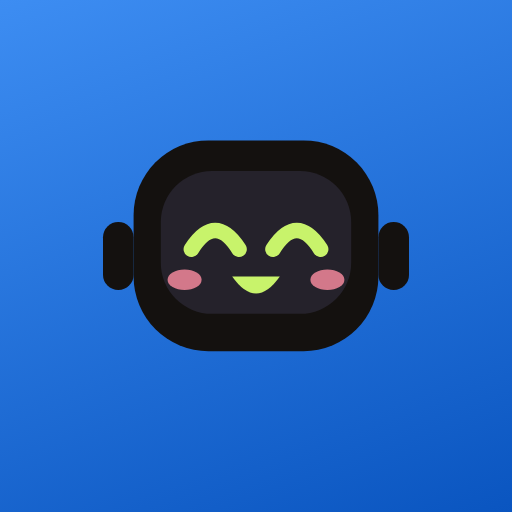
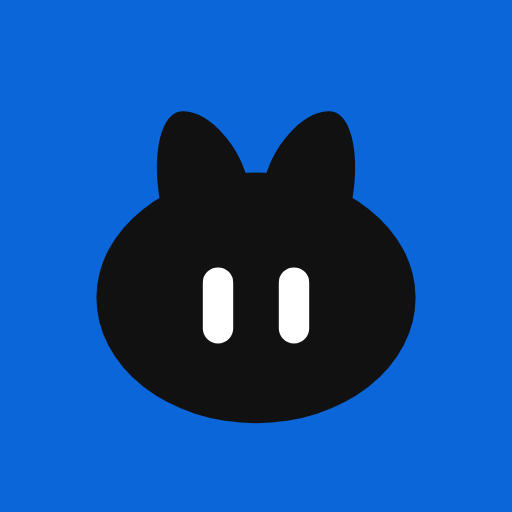
Add files via upload

diff --git a/public/app.js b/public/app.js
@@ -68,7 +68,7 @@
   const SUN = '<svg width="20" height="20" viewBox="0 0 24 24" fill="none" stroke="currentColor" stroke-width="1.8" stroke-linecap="round" stroke-linejoin="round" aria-hidden="true"><circle cx="12" cy="12" r="4"/><path d="M12 3v2M12 19v2M3 12h2M19 12h2M5.6 5.6l1.4 1.4M17 17l1.4 1.4M18.4 5.6L17 7M7 17l-1.4 1.4"/></svg>';
 
   /* ---------- Estado ---------- */
-  const defaultStore = () => ({ manual: [], rules: {}, goals: [], budget: null, cofrinho: null, fixedHidden: {}, catCount: 2, cats: null, hidden: {}, hideKeys: {}, notes: {}, invest: { rate: 13, monthly: null }, look: { accent: 'blue', face: 'big' } });
+  const defaultStore = () => ({ manual: [], rules: {}, goals: [], budget: null, cofrinho: null, fixedHidden: {}, catCount: 2, cats: null, hidden: {}, hideKeys: {}, notes: {}, invest: { rate: 13, monthly: null }, look: { accent: 'blue', face: 'big', body: 'classic' } });
   const state = { tab: 'inicio', month: CUR, dir: 'out', filter: 'all', fl: { methods: [], cats: [], days: [] }, open: {}, q: '', showAll: false, sim: { valor: '2000', juros: '0', desc: '0', pay: 'card12' } };
   let DATA = null, STORE = defaultStore(), TX = [], FIX = null, storeMode = 'local', saveTimer = null;
 
@@ -107,7 +107,7 @@
     if (typeof applyLook === 'function') applyLook();
   }
   function initTheme() {
-    try { const r = JSON.parse(localStorage.getItem('mg-look') || 'null'); if (r && ACCENTS_OK(r.accent)) STORE.look = { accent: r.accent, face: r.face || 'big' }; } catch (e) { /* ignorado */ }
+    try { const r = JSON.parse(localStorage.getItem('mg-look') || 'null'); if (r && ACCENTS_OK(r.accent)) STORE.look = { accent: r.accent, face: r.face || 'big', body: r.body || 'classic' }; } catch (e) { /* ignorado */ }
     let t = null;
     try { t = localStorage.getItem('mg-theme'); } catch (e) { /* ignorado */ }
     if (t !== 'dark' && t !== 'light') t = window.matchMedia && matchMedia('(prefers-color-scheme: dark)').matches ? 'dark' : 'light';
@@ -304,7 +304,7 @@
   /* ---------- Mascote Bit ---------- */
   const FACES = { big: 'Olhão', brows: 'Sobrancelhas', grin: 'Sorrisão' };
   const ACCENTS = { blue: { n: 'Azul', c: '#0A66D9' }, green: { n: 'Verde', c: '#0F7B5F' }, violet: { n: 'Violeta', c: '#6045E0' } };
-  const lookNow = () => Object.assign({ accent: 'blue', face: 'big' }, STORE && STORE.look);
+  const lookNow = () => Object.assign({ accent: 'blue', face: 'big' }, STORE && STORE.look, { body: 'critter' });
   function bitFace(face, mood) {
     const base = { big: '#8BE9C9', brows: '#FFD27A', grin: '#7FE3FF' }[face] || '#8BE9C9';
     const c = { happy: '#C8F36B', sad: '#A9C8FF', angry: '#FF8A5C', sleepy: '#9CA3AF' }[mood] || base;
@@ -350,10 +350,24 @@
       surprised: '<circle cx="38" cy="50" r="7.5" fill="' + c + '"/><circle cx="62" cy="50" r="7.5" fill="' + c + '"/>' + glint(38, 50, 2.6) + glint(62, 50, 2.6) + '<ellipse cx="50" cy="67" rx="3.5" ry="4.5" fill="' + c + '"/>'
     })[mood];
   }
-  function bit(mood, size, float, face) {
+  const BODIES = {
+    critter: { n: 'Mascote', vb: [0, 8, 100, 90], custom: true }
+  };
+  function critterEyes(mood) {
+    const e = 'fill:var(--bg)', st = 'fill:none;stroke:var(--bg);stroke-width:5;stroke-linecap:round';
+    if (mood === 'happy') return '<path class="eye" style="' + st + '" d="M35 68 Q40.500 57 46 68 M54 68 Q59.500 57 65 68"/>';
+    if (mood === 'sleepy') return '<path style="' + st + '" d="M35 66 H46 M54 66 H65"/>';
+    if (mood === 'surprised') return '<circle class="eye" style="' + e + '" cx="40.500" cy="64" r="6.500"/><circle class="eye" style="' + e + '" cx="59.500" cy="64" r="6.500"/>';
+    const h = mood === 'sad' ? 14 : 20;
+    return '<rect class="eye" style="' + e + '" x="36" y="' + (mood === 'sad' ? 62 : 56) + '" width="8" height="' + h + '" rx="4"/><rect class="eye" style="' + e + '" x="56" y="' + (mood === 'sad' ? 62 : 56) + '" width="8" height="' + h + '" rx="4"/>';
+  }
+  function bit(mood, size, float, face, body) {
     face = face || lookNow().face;
+    body = BODIES.critter;
     mood = mood || 'idle';
-    return '<svg class="bit' + (float ? ' float' : '') + '" width="' + size + '" height="' + size + '" viewBox="0 6 100 100" role="img" aria-label="Bit, o robô do Opus"><rect class="b" x="5" y="46" width="9" height="20" rx="4.5"/><rect class="b" x="86" y="46" width="9" height="20" rx="4.5"/><rect class="b" x="14" y="22" width="72" height="62" rx="22"/><rect class="s" x="22" y="31" width="56" height="42" rx="15"/>' + (bitFace(face, mood) || bitFace(face, 'idle')) + '</svg>';
+    const v = body.vb, w = Math.round(size * v[2] / v[3]);
+    if (body.custom) return '<svg class="bit' + (float ? ' float' : '') + '" width="' + w + '" height="' + size + '" viewBox="' + v.join(' ') + '" role="img" aria-label="Mascote do Opus"><path class="b" d="M26 44 C22 30 24 16 30 15 C37 14 46 24 48 34 Z"/><path class="b" d="M74 44 C78 30 76 16 70 15 C63 14 54 24 52 34 Z"/><ellipse class="b" cx="50" cy="64" rx="42" ry="33"/>' + critterEyes(mood) + '</svg>';
+    return '<svg class="bit' + (float ? ' float' : '') + '" width="' + w + '" height="' + size + '" viewBox="' + v.join(' ') + '" role="img" aria-label="Bit, o robô do Opus">' + body.u + '<rect class="b" x="5" y="46" width="9" height="20" rx="4.5"/><rect class="b" x="86" y="46" width="9" height="20" rx="4.5"/><rect class="b" x="14" y="22" width="72" height="62" rx="22"/><rect class="s" x="22" y="31" width="56" height="42" rx="15"/>' + (bitFace(face, mood) || bitFace(face, 'idle')) + '</svg>';
   }
   function applyLook() {
     const L = lookNow();
@@ -846,11 +860,12 @@
 
     const LK = lookNow();
     const accBtns = Object.keys(ACCENTS).map((k) => '<button type="button" class="opt' + (LK.accent === k ? ' on' : '') + '" data-act="set-accent" data-id="' + k + '" aria-pressed="' + (LK.accent === k) + '"><i class="dot" style="background:' + ACCENTS[k].c + '"></i>' + ACCENTS[k].n + '</button>').join('');
-    const faceBtns = Object.keys(FACES).map((k) => '<button type="button" class="opt face' + (LK.face === k ? ' on' : '') + '" data-act="set-face" data-id="' + k + '" aria-pressed="' + (LK.face === k) + '" aria-label="Rosto ' + FACES[k] + '">' + bit('idle', 56, false, k) + '<span>' + FACES[k] + '</span></button>').join('');
-    const look = '<section class="card" style="gap:0"><div class="item" style="border-top:0;padding-top:0"><div><div class="nm">Tema</div><div class="ds">' + (dark ? 'Escuro' : 'Claro') + ' ativo</div></div>' +
+    const summary = ACCENTS[LK.accent].n;
+    const look = '<section class="card" style="gap:0"><button type="button" class="look-head" data-act="toggle-look" aria-expanded="' + lookOpen + '"><span><span class="l">Aparência</span><span class="s">' + summary + '</span></span><span class="cvwrap' + (lookOpen ? ' open' : '') + '">' + CHV + '</span></button>' +
+      (lookOpen ? '<div class="look-body"><div class="item"><div><div class="nm">Tema</div><div class="ds">' + (dark ? 'Escuro' : 'Claro') + ' ativo</div></div>' +
       '<div class="seg" role="group" aria-label="Tema"><button type="button" data-act="set-theme" data-id="light" aria-pressed="' + !dark + '">Claro</button><button type="button" data-act="set-theme" data-id="dark" aria-pressed="' + dark + '">Escuro</button></div></div>' +
       '<div class="item"><div style="min-width:0;width:100%"><div class="nm">Cor de destaque</div><div class="opts" role="group" aria-label="Cor de destaque">' + accBtns + '</div></div></div>' +
-      '<div class="item"><div style="min-width:0;width:100%"><div class="nm">Rosto do Bit</div><div class="opts" role="group" aria-label="Rosto do Bit">' + faceBtns + '</div></div></div></section>';
+      '</div>' : '') + '</section>';
 
     const faceSub = !faceSupported() ? 'Este navegador não oferece Face ID' : faceOn ? 'Ativado: entre sem digitar a senha' : 'Desativado neste aparelho';
     const security = '<section class="card" style="gap:0"><div class="item" style="border-top:0;padding-top:0"><div style="min-width:0"><div class="nm">Entrar com Face ID</div><div class="ds">' + esc(faceMsg || faceSub) + '</div></div>' +
@@ -913,7 +928,7 @@
     }
     $('#banner').innerHTML = parts.join('');
   }
-  let lastTab = null, lastLook = '';
+  let lastTab = null, lastLook = '', lookOpen = false;
   function render() {
     { const lk = JSON.stringify(lookNow()); if (lk !== lastLook) { lastLook = lk; applyLook(); } }
     if (!DATA) return;
@@ -1085,6 +1100,8 @@
     'aporte-auto': () => { STORE.invest = Object.assign(invCfg(), { monthly: null }); closeDlg(); saveStore(); },
     'set-theme': (el) => { applyTheme(el.dataset.id); render(); },
     'set-accent': (el) => { STORE.look = Object.assign(lookNow(), { accent: el.dataset.id }); saveStore(); },
+    'toggle-look': () => { lookOpen = !lookOpen; render(); },
+    'set-body': (el) => { STORE.look = Object.assign(lookNow(), { body: el.dataset.id }); saveStore(); },
     'set-face': (el) => { STORE.look = Object.assign(lookNow(), { face: el.dataset.id }); saveStore(); },
     'faceid-login': () => faceLogin(),
     'face-enable': () => faceEnable(),

diff --git a/public/index.html b/public/index.html
@@ -11,9 +11,9 @@
 <meta name="apple-mobile-web-app-title" content="Opus">
 <meta name="apple-mobile-web-app-status-bar-style" content="default">
 <link rel="manifest" href="/manifest.webmanifest">
-<link rel="icon" type="image/png" href="/icon-192.png">
-<link rel="apple-touch-icon" href="/icon-180.png">
-<link rel="stylesheet" href="/styles.css?v=14">
+<link rel="icon" type="image/png" href="/icon-192.png?v=19">
+<link rel="apple-touch-icon" href="/icon-180.png?v=19">
+<link rel="stylesheet" href="/styles.css?v=19">
 </head>
 <body>
 
@@ -21,7 +21,7 @@
 <main id="login" class="auth" hidden>
   <aside class="auth-brand">
     <div class="ab-top">
-      <span class="ab-logo" aria-hidden="true"><svg class="bit" width="30" height="30" viewBox="0 6 100 100" aria-hidden="true" style="--bit:#F2F4F8;--bit-screen:#1B2230"><rect class="b" x="5" y="46" width="9" height="20" rx="4.5"/><rect class="b" x="86" y="46" width="9" height="20" rx="4.5"/><rect class="b" x="14" y="22" width="72" height="62" rx="22"/><rect class="s" x="22" y="31" width="56" height="42" rx="15"/><rect x="36" y="43" width="7" height="16" rx="3.5" fill="#FFB38A"/><rect x="57" y="43" width="7" height="16" rx="3.5" fill="#FFB38A"/></svg></span>
+      <span class="ab-logo" aria-hidden="true"><svg class="bit" width="34" height="30" viewBox="0 8 100 90" aria-hidden="true" style="--bit:#F2F4F8;--bg:#1B2230"><path class="b" d="M26 44 C22 30 24 16 30 15 C37 14 46 24 48 34 Z"/><path class="b" d="M74 44 C78 30 76 16 70 15 C63 14 54 24 52 34 Z"/><ellipse class="b" cx="50" cy="64" rx="42" ry="33"/><rect x="36" y="56" width="8" height="20" rx="4" style="fill:var(--bg)"/><rect x="56" y="56" width="8" height="20" rx="4" style="fill:var(--bg)"/></svg></span>
       <span>Opus</span>
     </div>
     <div class="ab-mid">
@@ -93,16 +93,16 @@
 
   <nav class="tabs" aria-label="Seções">
     <div class="tabs-in">
-      <button type="button" class="tab" data-tab="inicio"><span class="pill"><svg width="22" height="22" viewBox="0 0 24 24" fill="none" stroke="currentColor" stroke-width="1.8" stroke-linecap="round" stroke-linejoin="round" aria-hidden="true"><path d="M4 11l8-7 8 7"/><path d="M6 10v9h12v-9"/></svg></span>Início</button>
-      <button type="button" class="tab" data-tab="gastos"><span class="pill"><svg width="22" height="22" viewBox="0 0 24 24" fill="none" stroke="currentColor" stroke-width="1.8" stroke-linecap="round" stroke-linejoin="round" aria-hidden="true"><path d="M7 4h10a1 1 0 0 1 1 1v15l-3-2-3 2-3-2-3 2V5a1 1 0 0 1 1-1z"/><path d="M9.5 9h5M9.5 13h5"/></svg></span>Gastos</button>
-      <button type="button" class="tab" data-tab="fixos"><span class="pill"><svg width="22" height="22" viewBox="0 0 24 24" fill="none" stroke="currentColor" stroke-width="1.8" stroke-linecap="round" stroke-linejoin="round" aria-hidden="true"><path d="M17 4l3 3-3 3"/><path d="M4 11V9a2 2 0 0 1 2-2h14"/><path d="M7 20l-3-3 3-3"/><path d="M20 13v2a2 2 0 0 1-2 2H4"/></svg></span>Fixos</button>
-      <button type="button" class="tab" data-tab="invest"><span class="pill"><svg width="22" height="22" viewBox="0 0 24 24" fill="none" stroke="currentColor" stroke-width="1.8" stroke-linecap="round" stroke-linejoin="round" aria-hidden="true"><path d="M3 17l6-6 4 4 8-8"/><path d="M15 7h6v6"/></svg></span>Investimentos</button>
-      <button type="button" class="tab" data-tab="config"><span class="pill"><svg width="22" height="22" viewBox="0 0 24 24" fill="none" stroke="currentColor" stroke-width="1.8" stroke-linecap="round" stroke-linejoin="round" aria-hidden="true"><circle cx="12" cy="12" r="3"/><path d="M19.4 15a1.7 1.7 0 0 0 .3 1.8l.1.1a2 2 0 1 1-2.8 2.8l-.1-.1a1.7 1.7 0 0 0-1.8-.3 1.7 1.7 0 0 0-1 1.5V21a2 2 0 1 1-4 0v-.1a1.7 1.7 0 0 0-1.1-1.5 1.7 1.7 0 0 0-1.8.3l-.1.1a2 2 0 1 1-2.8-2.8l.1-.1a1.7 1.7 0 0 0 .3-1.8 1.7 1.7 0 0 0-1.5-1H3a2 2 0 1 1 0-4h.1a1.7 1.7 0 0 0 1.5-1.1 1.7 1.7 0 0 0-.3-1.8l-.1-.1a2 2 0 1 1 2.8-2.8l.1.1a1.7 1.7 0 0 0 1.8.3H9a1.7 1.7 0 0 0 1-1.5V3a2 2 0 1 1 4 0v.1a1.7 1.7 0 0 0 1 1.5 1.7 1.7 0 0 0 1.8-.3l.1-.1a2 2 0 1 1 2.8 2.8l-.1.1a1.7 1.7 0 0 0-.3 1.8V9a1.7 1.7 0 0 0 1.5 1H21a2 2 0 1 1 0 4h-.1a1.7 1.7 0 0 0-1.5 1z"/></svg></span>Configurações</button>
+      <button type="button" class="tab" data-tab="inicio" aria-label="Início" title="Início"><span class="pill"><svg width="22" height="22" viewBox="0 0 24 24" fill="none" stroke="currentColor" stroke-width="1.8" stroke-linecap="round" stroke-linejoin="round" aria-hidden="true"><path d="M4 11l8-7 8 7"/><path d="M6 10v9h12v-9"/></svg></span></button>
+      <button type="button" class="tab" data-tab="gastos" aria-label="Gastos" title="Gastos"><span class="pill"><svg width="22" height="22" viewBox="0 0 24 24" fill="none" stroke="currentColor" stroke-width="1.8" stroke-linecap="round" stroke-linejoin="round" aria-hidden="true"><path d="M7 4h10a1 1 0 0 1 1 1v15l-3-2-3 2-3-2-3 2V5a1 1 0 0 1 1-1z"/><path d="M9.5 9h5M9.5 13h5"/></svg></span></button>
+      <button type="button" class="tab" data-tab="fixos" aria-label="Fixos" title="Fixos"><span class="pill"><svg width="22" height="22" viewBox="0 0 24 24" fill="none" stroke="currentColor" stroke-width="1.8" stroke-linecap="round" stroke-linejoin="round" aria-hidden="true"><path d="M17 4l3 3-3 3"/><path d="M4 11V9a2 2 0 0 1 2-2h14"/><path d="M7 20l-3-3 3-3"/><path d="M20 13v2a2 2 0 0 1-2 2H4"/></svg></span></button>
+      <button type="button" class="tab" data-tab="invest" aria-label="Investimentos" title="Investimentos"><span class="pill"><svg width="22" height="22" viewBox="0 0 24 24" fill="none" stroke="currentColor" stroke-width="1.8" stroke-linecap="round" stroke-linejoin="round" aria-hidden="true"><path d="M3 17l6-6 4 4 8-8"/><path d="M15 7h6v6"/></svg></span></button>
+      <button type="button" class="tab" data-tab="config" aria-label="Configurações" title="Configurações"><span class="pill"><svg width="22" height="22" viewBox="0 0 24 24" fill="none" stroke="currentColor" stroke-width="1.8" stroke-linecap="round" stroke-linejoin="round" aria-hidden="true"><circle cx="12" cy="12" r="3"/><path d="M19.4 15a1.7 1.7 0 0 0 .3 1.8l.1.1a2 2 0 1 1-2.8 2.8l-.1-.1a1.7 1.7 0 0 0-1.8-.3 1.7 1.7 0 0 0-1 1.5V21a2 2 0 1 1-4 0v-.1a1.7 1.7 0 0 0-1.1-1.5 1.7 1.7 0 0 0-1.8.3l-.1.1a2 2 0 1 1-2.8-2.8l.1-.1a1.7 1.7 0 0 0 .3-1.8 1.7 1.7 0 0 0-1.5-1H3a2 2 0 1 1 0-4h.1a1.7 1.7 0 0 0 1.5-1.1 1.7 1.7 0 0 0-.3-1.8l-.1-.1a2 2 0 1 1 2.8-2.8l.1.1a1.7 1.7 0 0 0 1.8.3H9a1.7 1.7 0 0 0 1-1.5V3a2 2 0 1 1 4 0v.1a1.7 1.7 0 0 0 1 1.5 1.7 1.7 0 0 0 1.8-.3l.1-.1a2 2 0 1 1 2.8 2.8l-.1.1a1.7 1.7 0 0 0-.3 1.8V9a1.7 1.7 0 0 0 1.5 1H21a2 2 0 1 1 0 4h-.1a1.7 1.7 0 0 0-1.5 1z"/></svg></span></button>
   </nav>
 </div>
 
 <dialog id="dlg" class="dlg"></dialog>
 
-<script src="/app.js?v=14" defer></script>
+<script src="/app.js?v=19" defer></script>
 </body>
 </html>

diff --git a/public/styles.css b/public/styles.css
@@ -345,3 +345,82 @@ button.ir:active{background:var(--soft)}
 .opt.face{flex-direction:column;gap:2px;padding:8px 12px;min-width:88px;font-size:12.5px}
 .opt.face svg{margin:0 auto}
 #brandBit{display:none !important}
+
+.opts .opt{width:auto;flex:1 1 84px}
+.opts .opt.face{min-width:84px}
+.look-body{margin-top:12px}
+.cvwrap{display:inline-flex;transition:transform .25s cubic-bezier(.2,.8,.2,1);color:var(--muted)}
+.cvwrap.open{transform:rotate(90deg)}
+@media (prefers-reduced-motion:reduce){.cvwrap{transition:none}}
+.look-head{display:flex;align-items:center;justify-content:space-between;gap:12px;width:100%;padding:0;background:none;border:0;text-align:left;color:var(--text);font:inherit}
+.look-head .l{display:block;font-size:16px;font-weight:600}
+.look-head .s{display:block;font-size:13px;color:var(--muted);margin-top:2px}
+.look-body .item:first-child{border-top:1px solid var(--line);margin-top:14px}
+
+/* v16: mais compacto no celular + toques de design (bento, brilho na borda, fundo pontilhado) */
+body{background-image:radial-gradient(color-mix(in srgb,var(--text) 7%,transparent) 1px,transparent 1.2px);background-size:22px 22px;background-attachment:fixed}
+.card.hero{position:relative;isolation:isolate;overflow:hidden}
+.card.hero::before{content:"";position:absolute;inset:-60%;z-index:-2;background:conic-gradient(from 0deg,transparent 0 70%,var(--accent) 85%,transparent 100%);animation:beam 7s linear infinite;opacity:.55}
+.card.hero::after{content:"";position:absolute;inset:1px;z-index:-1;border-radius:19px;background:var(--card)}
+@keyframes beam{to{transform:rotate(360deg)}}
+@media (prefers-reduced-motion:reduce){.card.hero::before{animation:none;opacity:.25}}
+.card{transition:border-color .2s ease}
+@media (hover:hover){.card:hover{border-color:color-mix(in srgb,var(--accent) 35%,var(--border))}}
+@media (max-width:640px){
+  body{font-size:14px}
+  .scroll{padding-top:max(14px,env(safe-area-inset-top));padding-left:14px;padding-right:14px}
+  .wrap{gap:12px}
+  .title{font-size:21px}
+  .head{display:grid;grid-template-columns:minmax(0,1fr) auto;gap:10px;align-items:center}
+  .brand{flex:none!important}
+  .head .month{width:100%}
+  .chip{height:34px;padding:0 12px;font-size:13px}
+  .chips{gap:6px}
+  .input{height:44px}
+  .head .small,.head #subtitle{font-size:11.5px}
+  .icon-btn{width:38px;height:38px;border-radius:12px}
+  .icon-btn.flat{width:34px;height:34px}
+  .btn{height:38px;padding:0 14px;font-size:14px;border-radius:12px}
+  .head #addBtn{height:38px}
+  .month{border-radius:12px}.month-label{font-size:13px}
+  .greet{font-size:25px}
+  .mood{gap:10px}
+  .mood .bit{height:84px;width:auto}
+  .bubble{font-size:13.5px;padding:11px 13px;border-radius:16px 16px 16px 5px}
+  .card{padding:14px;border-radius:16px;gap:12px}
+  .card.hero{padding:16px;gap:14px}
+  .card.hero::after{border-radius:15px}
+  .card h2{font-size:14.5px}
+  .eyebrow{font-size:12.5px}
+  .big{font-size:clamp(30px,9.5vw,38px)}
+  .mid{font-size:26px}
+  .small,.card .sub{font-size:12px}
+  .k-l{font-size:12px}.k-v{font-size:17px}.k-s{font-size:11px}
+  .card.kpi{padding:12px 14px}
+  .inset>.ir{min-height:46px;padding:6px 14px}
+  .inset .ir .l{font-size:14px}.inset .ir .s{font-size:11.5px}
+  .look-head .l{font-size:14.5px}.look-head .s{font-size:12px}
+  .page-h h2,.page-h h1{font-size:24px}.page-h p{font-size:13px}
+  .tab{height:54px;font-size:11px}
+  .tab .pill{width:46px;height:26px}
+  .tab svg{width:20px;height:20px}
+  .scroll{padding-bottom:calc(88px + env(safe-area-inset-bottom))}
+  .opt.face{min-width:76px;font-size:12px}
+  .opts .opt{flex-basis:76px}
+}
+
+/* v17: sem nome no cabeçalho, barra só com ícones */
+.head .brand{display:none}
+.head-actions{margin-left:auto}
+.tab{height:52px;gap:0}
+.tab .pill{width:58px;height:38px}
+.tab svg{width:25px;height:25px}
+@media (max-width:640px){
+  .head{grid-template-columns:minmax(0,1fr) auto auto}
+  .head #themeBtn{order:2}
+  .head .month{order:1;width:100%}
+  .head #addBtn{order:3}
+  .tab{height:50px}
+  .tab svg{width:24px;height:24px}
+  .scroll{padding-bottom:calc(80px + env(safe-area-inset-bottom))}
+}
